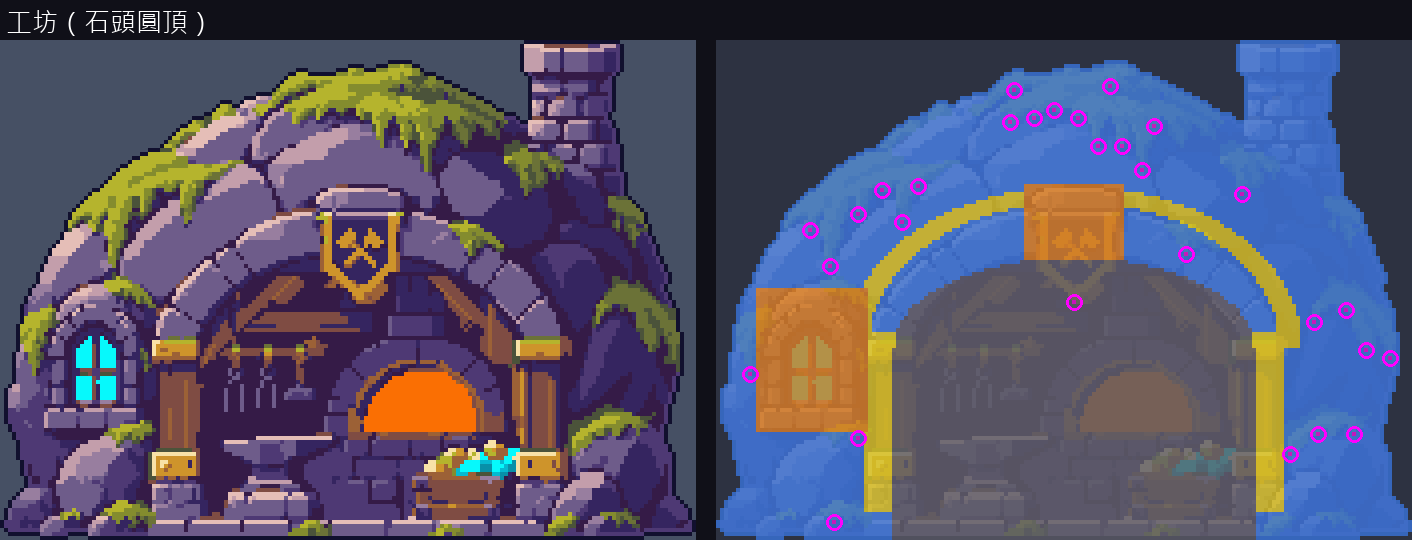
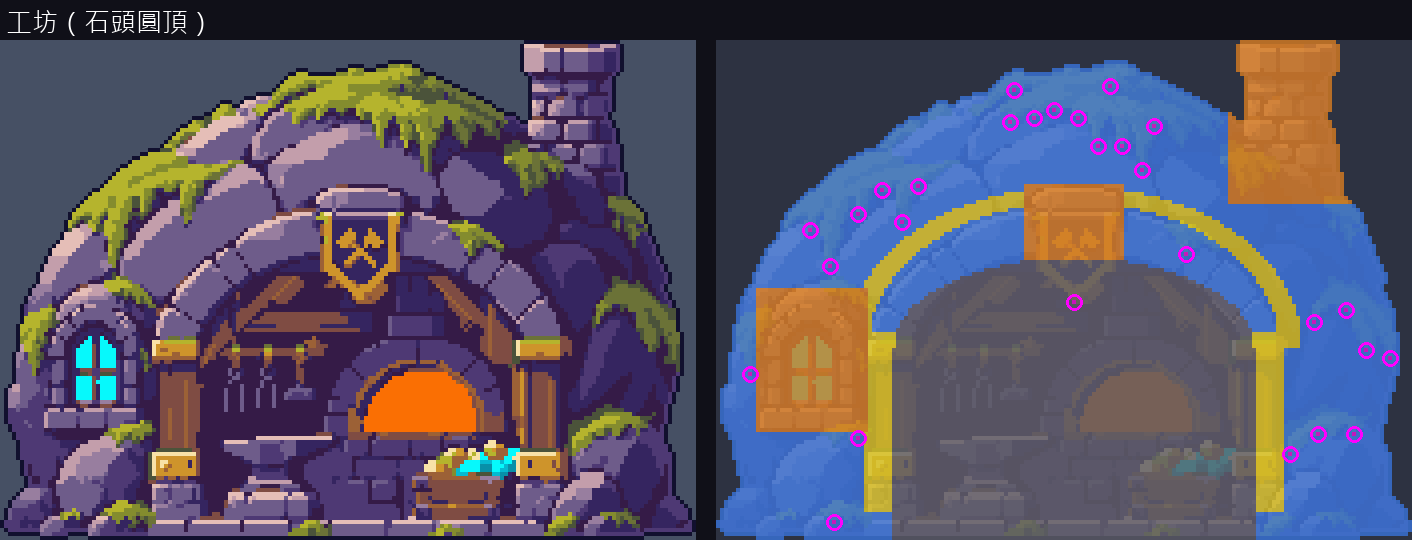
屋頂積雪拿掉尺畫的直線：離天空多遠改成往左右各看 12 欄斜著算、被煙囪水晶擋住的欄位用兩旁屋頂線連起來補、陡的面（看 ±4 欄坡度）雪少、雜訊換成二維、頂面那層厚度隨欄變化；煙囪在結構圖標成繞開（直立的面雪不黏、雨水繞過）；scene-fx skill 記下

Changed region(s): [[0.8725, 0.0593, 0.966, 0.3852]]

diff --git a/unity/Assets/Scripts/Runtime/Town/TownSnow.cs b/unity/Assets/Scripts/Runtime/Town/TownSnow.cs
@@ -32,6 +32,14 @@ namespace ZeroStar
 
         static double Hash(int i, int s) { unchecked { uint h = (uint)(i * 374761393 + s * 668265263); h = (h ^ (h >> 13)) * 1274126177; h ^= h >> 16; return (h & 0xffffff) / 16777216.0; } }
         static double Noise(double x, int s) { int i = (int)Math.Floor(x); double f = x - i; f = f * f * (3 - 2 * f); return Hash(i, s) + (Hash(i + 1, s) - Hash(i, s)) * f; }
+        /// 二維雜訊（一維雜訊斜著拉會出現一條條斜直線，所以屋頂面的雪用這個）
+        static double Noise2(double x, double y, int s)
+        {
+            int ix = (int)Math.Floor(x), iy = (int)Math.Floor(y); double fx = x - ix, fy = y - iy;
+            fx = fx * fx * (3 - 2 * fx); fy = fy * fy * (3 - 2 * fy);
+            double a = Hash(ix + iy * 7919, s), b = Hash(ix + 1 + iy * 7919, s), c = Hash(ix + (iy + 1) * 7919, s), d = Hash(ix + 1 + (iy + 1) * 7919, s);
+            return a + (b - a) * fx + (c - a) * fy + (a - b - c + d) * fx * fy;
+        }
 
         /// 載入（或重新擺放建築）之後叫一次：每一欄的接雪面與能堆多厚
         public static void Build(uint[] main)
@@ -54,14 +62,45 @@ namespace ZeroStar
                 int l = x > 0 ? topY[x - 1] : t, r = x < TOWN_W - 1 ? topY[x + 1] : t;
                 int slope = Math.Max(Math.Abs(l - t), Math.Abs(r - t));
                 cap[x] = (byte)(slope <= 0 ? 6 : slope == 1 ? 5 : slope == 2 ? 4 : slope == 3 ? 2 : slope == 4 ? 1 : 0);   // 平的厚、斜的薄、陡的堆不住
+                if (c == TownStructure.ROOF && cap[x] > 3) cap[x] = 3;   // 結構圖的屋頂：整面的雪會蓋，頂面那層薄一點
             }
             if (TownRainHits.DebugLog) { int g = 0, z = 0; var hist = new System.Collections.Generic.SortedDictionary<int, int>(); for (int x = 0; x < TOWN_W; x++) { if (topY[x] >= FLOOR) g++; if (cap[x] == 0) z++; int b = topY[x] / 10 * 10; hist[b] = hist.TryGetValue(b, out int v) ? v + 1 : 1; } UnityEngine.Debug.Log($"[Snow] 地面 {g} 欄、堆不住 {z} 欄、頂面分布 " + string.Join(" ", System.Linq.Enumerable.Select(hist, kv => kv.Key + ":" + kv.Value))); }
             // 屋頂面（結構圖）整面朝天空：越靠近頂端越早被雪蓋，加上雜訊，雪一塊一塊往下長（照影片 05 物件上的積雪）
             mainRef = main; face = new byte[TOWN_W * H];
+            // 屋頂表面（算「離天空多遠」用）：跳過繞開的東西（煙囪、水晶），從它後面的屋頂算；表面多陡（陡的面雪少）
+            var topR = new int[TOWN_W]; var steep = new double[TOWN_W];
+            for (int x = 0; x < TOWN_W; x++)
+            {
+                topR[x] = FLOOR;
+                for (int y = 0; y < FLOOR - 2; y++) { if (!Solid(x, y)) continue; topR[x] = TownStructure.At(x, y) == TownStructure.AVOID ? -1 : y; break; }
+            }
+            // 頂上是繞開的東西（煙囪、水晶）的那幾欄：屋頂線用左右兩邊連起來補（像屋頂從它後面穿過去）。
+            // 從它下面開始算會切出方塊，整段跳過又會讓寬的水晶周圍一大塊沒雪
+            for (int x = 0; x < TOWN_W; x++)
+            {
+                if (topR[x] != -1) continue;
+                int l = x - 1; while (l >= 0 && topR[l] == -1) l--;
+                int r = x; while (r < TOWN_W && topR[r] == -1) r++;
+                bool okL = l >= 0 && topR[l] < FLOOR, okR = r < TOWN_W && topR[r] < FLOOR;
+                for (int xx = x; xx < r; xx++)
+                    topR[xx] = okL && okR ? (int)Math.Round(topR[l] + (topR[r] - topR[l]) * (xx - l) / (double)(r - l)) : okL ? topR[l] : okR ? topR[r] : FLOOR;
+                x = r - 1;
+            }
+            for (int x = 4; x < TOWN_W - 4; x++)
+            {
+                // 坡度看左右各 4 欄（只看隔壁一欄的話，青苔一撮撮凸起來會被當成很陡）
+                int a2 = topR[x - 4], b2 = topR[x + 4];
+                double slope = a2 >= FLOOR || b2 >= FLOOR ? 9 : Math.Abs(b2 - a2) / 8.0;
+                steep[x] = Math.Max(0, Math.Min(1, (slope - 0.6) / 1.4));
+            }
             for (int y = 0; y < FLOOR - 4; y++) for (int x = 0; x < TOWN_W; x++)
             {
                 if (TownStructure.At(x, y) != TownStructure.ROOF || topY[x] >= FLOOR) continue;
-                double below = (y - topY[x]) / 26.0, n = Noise(x / 5.0 + y * 0.37, 31) * 0.6 + Noise(x / 2.0 - y * 0.21, 32) * 0.4;
+                // 離天空多遠：往左右各看 12 欄、斜著算（只看這一欄的頂面的話，煙囪、水晶旁邊頂面突然跳很多，雪會被切出一條垂直線）
+                double dist = 1e9, st = 1;
+                for (int dx = -12; dx <= 12; dx++) { int xx = x + dx; if (xx < 0 || xx >= TOWN_W || topR[xx] >= FLOOR) continue; double dd = y - topR[xx] + Math.Abs(dx) * 0.7; if (dd < dist) { dist = dd; st = steep[xx]; } }
+                if (dist > 1e8) continue;
+                double below = Math.Max(0, dist) / 26.0 + st * 0.9, n = Noise2(x / 6.0, y / 4.0, 31) * 0.6 + Noise2(x / 2.5, y / 2.5, 32) * 0.4;   // 陡的面（圓頂兩側）雪少
                 double sc = 1 - below * 0.75 + (n - 0.5) * 0.5;
                 face[y * TOWN_W + x] = (byte)Math.Max(1, Math.Min(255, sc * 200));
             }
@@ -93,7 +132,7 @@ namespace ZeroStar
             double c = cover; if (c <= 0.01 || cap[x] == 0) return 0;
             // 門檻：積雪越多門檻越低；雜訊高的地方先長
             double k = (c * 1.35 - (1 - nCol[x]) * 0.55);
-            return (int)Math.Floor(Math.Max(0, Math.Min(1, k)) * cap[x] + 0.35);
+            return (int)Math.Floor(Math.Max(0, Math.Min(1, k)) * cap[x] * (0.55 + 0.45 * nCol[x]) + 0.35);   // 厚度隨欄變化：下緣不整齊（每欄一樣厚會變成一條水平線）
         }
 
         static uint Pack(double r, double g, double b) => unchecked(0xff000000u | ((uint)Math.Min(255, Math.Max(0, b)) << 16) | ((uint)Math.Min(255, Math.Max(0, g)) << 8) | (uint)Math.Min(255, Math.Max(0, r)));

diff --git a/art/工具/場景/structure-maps.py b/art/工具/場景/structure-maps.py
@@ -63,6 +63,8 @@ def guild():
                 M[y][x] = AVOID                                    # 屋頂上的水晶（金色、亮面、暗面；不是石板瓦的藍紫色）
             elif (48 <= x <= 74 or 188 <= x <= 214) and 58 <= y <= 81:
                 M[y][x] = AVOID                                    # 小屋頂窗的正面（窗、窗框）
+            elif 34 <= x <= 62 and y <= 44:
+                M[y][x] = AVOID                                    # 煙囪（直立的面：雪不黏、雨水繞過去；頂上的雪由頂面那層積）
             elif inside_tri(x, y, apex, gl, gr):
                 M[y][x] = SHELTER                                  # 山牆正面（盾牌那一面是直立的，水不從上面流）
             else:
@@ -172,6 +174,8 @@ def workshop():
                 M[y][x] = AVOID                                    # 拱頂的招牌
             elif 10 <= x <= 37 and 62 <= y <= 97:
                 M[y][x] = AVOID                                    # 左邊的窗（含石框）
+            elif 128 <= x <= 158 and y <= 40:
+                M[y][x] = AVOID                                    # 右上的煙囪（直立的面：雪不黏、雨水繞過去）
             elif (37 <= x <= 51 or 127 <= x <= 141) and 73 <= y <= 117:
                 M[y][x] = GUIDE                                    # 拱門兩邊的木柱：拱上流下來的水順著往下
             elif y <= 76 and 0.9 <= dout < 1.0:
